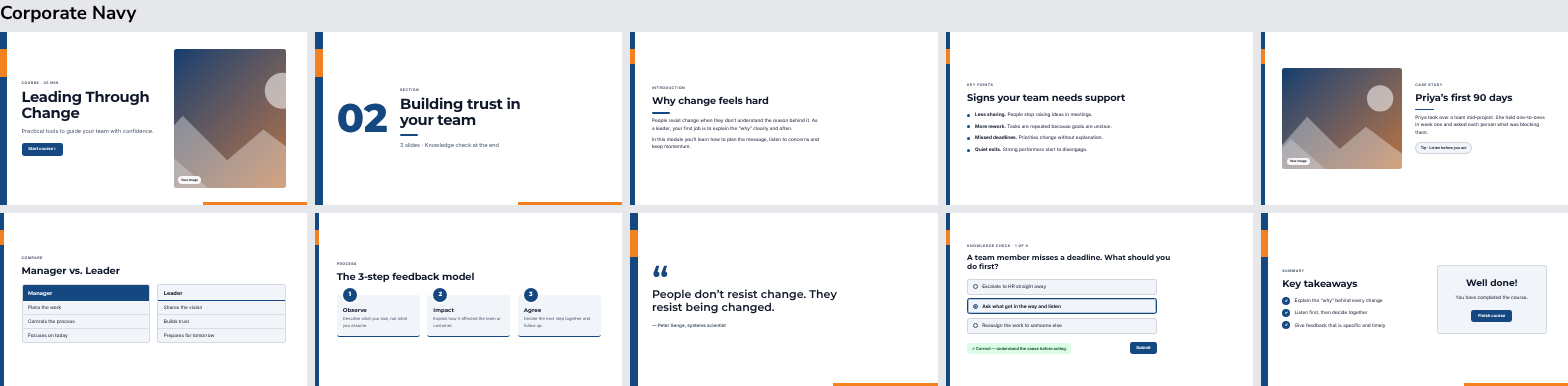
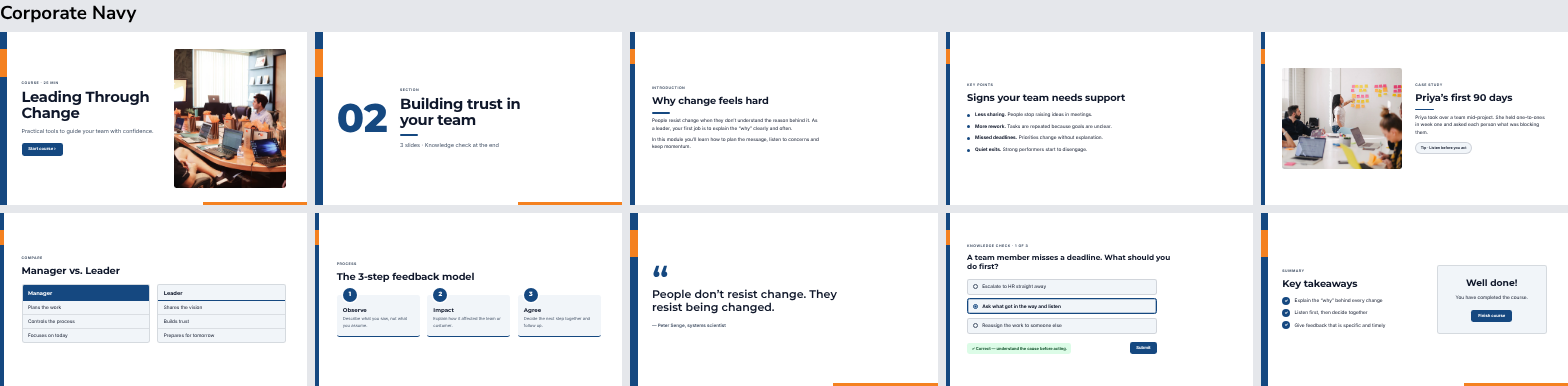
feat: real Unsplash photos in course slide templates
- Replace gradient image placeholders with 18 Unsplash photos (cover and
  feature photo per template), bundled as WebP in src/assets/templates
- Per-template crop focus for cover photos; photos are decorative (alt="")
- Update design spec, reference images and add PHOTO_CREDITS.md

Claude-Session: https://claude.ai/code/session_0179m8qGeWhmhiDN1X8WoMy8

Changed region(s): [[0.0938, 0.1244, 0.1875, 0.4974], [0.8125, 0.1554, 0.9062, 0.4352]]

diff --git a/Downloads/Content Authoring tool/Ai Scorm Generation/src/app/components/templates/courseTemplates.ts b/Downloads/Content Authoring tool/Ai Scorm Generation/src/app/components/templates/courseTemplates.ts
@@ -1,3 +1,22 @@
+import corporateCover from '../../../assets/templates/corporate-cover.webp';
+import corporateFeature from '../../../assets/templates/corporate-feature.webp';
+import executiveFeature from '../../../assets/templates/executive-feature.webp';
+import mintCover from '../../../assets/templates/mint-cover.webp';
+import mintFeature from '../../../assets/templates/mint-feature.webp';
+import coralCover from '../../../assets/templates/coral-cover.webp';
+import coralFeature from '../../../assets/templates/coral-feature.webp';
+import oceanCover from '../../../assets/templates/ocean-cover.webp';
+import oceanFeature from '../../../assets/templates/ocean-feature.webp';
+import plumCover from '../../../assets/templates/plum-cover.webp';
+import plumFeature from '../../../assets/templates/plum-feature.webp';
+import forestCover from '../../../assets/templates/forest-cover.webp';
+import forestFeature from '../../../assets/templates/forest-feature.webp';
+import monoFeature from '../../../assets/templates/mono-feature.webp';
+import techCover from '../../../assets/templates/tech-cover.webp';
+import techFeature from '../../../assets/templates/tech-feature.webp';
+import sandCover from '../../../assets/templates/sand-cover.webp';
+import sandFeature from '../../../assets/templates/sand-feature.webp';
+
 /**
  * Course slide templates.
  *
@@ -62,6 +81,12 @@ export interface CourseTemplate {
   motif: TemplateMotif;
   /** Title-slide composition and the shape used for images in this template. */
   cover: { layout: CoverLayout; imageShape: ImageShape };
+  /**
+   * Sample photos (Unsplash licence, see docs/templates/PHOTO_CREDITS.md).
+   * `cover` is used on the title slide, `feature` on Image + Text slides.
+   * `focus` is the CSS object-position for the cover crop.
+   */
+  photos: { cover?: string; feature: string; focus?: string };
 }
 
 export const COURSE_TEMPLATES: CourseTemplate[] = [
@@ -71,6 +96,7 @@ export const COURSE_TEMPLATES: CourseTemplate[] = [
     colors: { bg: '#FFFFFF', surface: '#F1F5F9', primary: '#154880', onPrimary: '#FFFFFF', accent: '#F48120', text: '#0F172A', muted: '#475569' },
     fonts: { heading: 'Montserrat', body: 'Inter' }, radius: 10, buttonStyle: 'rounded', motif: 'side-band',
     cover: { layout: 'image-right', imageShape: 'rect' },
+    photos: { cover: corporateCover, feature: corporateFeature },
   },
   {
     id: 'tpl-executive-gold', name: 'Executive Gold', description: 'Dark, premium and refined',
@@ -78,6 +104,7 @@ export const COURSE_TEMPLATES: CourseTemplate[] = [
     colors: { bg: '#0F172A', surface: '#1E293B', primary: '#D4A843', onPrimary: '#0F172A', accent: '#D4A843', text: '#F8FAFC', muted: '#CBD5E1' },
     fonts: { heading: 'Playfair Display', body: 'Inter' }, radius: 4, buttonStyle: 'square', motif: 'gold-frame',
     cover: { layout: 'centered', imageShape: 'rect' },
+    photos: { feature: executiveFeature, focus: 'center 30%' },
   },
   {
     id: 'tpl-fresh-mint', name: 'Fresh Mint', description: 'Light, friendly and modern',
@@ -85,6 +112,7 @@ export const COURSE_TEMPLATES: CourseTemplate[] = [
     colors: { bg: '#FFFFFF', surface: '#F0FDFA', primary: '#0F766E', onPrimary: '#FFFFFF', accent: '#5EEAD4', text: '#134E4A', muted: '#3F5F5B' },
     fonts: { heading: 'Poppins', body: 'Poppins' }, radius: 18, buttonStyle: 'pill', motif: 'soft-blobs',
     cover: { layout: 'image-left', imageShape: 'arch' },
+    photos: { cover: mintCover, feature: mintFeature },
   },
   {
     id: 'tpl-sunrise-coral', name: 'Sunrise Coral', description: 'Warm, energetic and bold',
@@ -92,6 +120,7 @@ export const COURSE_TEMPLATES: CourseTemplate[] = [
     colors: { bg: '#FFF7ED', surface: '#FFFFFF', primary: '#C2410C', onPrimary: '#FFFFFF', accent: '#FB923C', text: '#431407', muted: '#7C2D12' },
     fonts: { heading: 'Montserrat', body: 'Lato' }, radius: 12, buttonStyle: 'rounded', motif: 'diagonal',
     cover: { layout: 'split', imageShape: 'rect' },
+    photos: { cover: coralCover, feature: coralFeature },
   },
   {
     id: 'tpl-ocean-breeze', name: 'Ocean Breeze', description: 'Calm blue, airy and clean',
@@ -99,6 +128,7 @@ export const COURSE_TEMPLATES: CourseTemplate[] = [
     colors: { bg: '#F0F7FF', surface: '#FFFFFF', primary: '#1D4ED8', onPrimary: '#FFFFFF', accent: '#38BDF8', text: '#0C1E3E', muted: '#334E7A' },
     fonts: { heading: 'Inter', body: 'Inter' }, radius: 14, buttonStyle: 'rounded', motif: 'circles',
     cover: { layout: 'image-right', imageShape: 'circle' },
+    photos: { cover: oceanCover, feature: oceanFeature, focus: 'center 40%' },
   },
   {
     id: 'tpl-royal-plum', name: 'Royal Plum', description: 'Rich purple with pink highlights',
@@ -106,6 +136,7 @@ export const COURSE_TEMPLATES: CourseTemplate[] = [
     colors: { bg: '#2E1065', surface: '#3B1C78', primary: '#F472B6', onPrimary: '#2E1065', accent: '#F472B6', text: '#FFFFFF', muted: '#DDD6FE' },
     fonts: { heading: 'Montserrat', body: 'Lato' }, radius: 16, buttonStyle: 'pill', motif: 'arc',
     cover: { layout: 'full-bleed', imageShape: 'rect' },
+    photos: { cover: plumCover, feature: plumFeature, focus: '70% center' },
   },
   {
     id: 'tpl-forest-hexa', name: 'Forest Hexa', description: 'Deep green with lime hexagons',
@@ -113,6 +144,7 @@ export const COURSE_TEMPLATES: CourseTemplate[] = [
     colors: { bg: '#052E16', surface: '#14532D', primary: '#A3E635', onPrimary: '#052E16', accent: '#A3E635', text: '#F0FDF4', muted: '#BBF7D0' },
     fonts: { heading: 'Poppins', body: 'Inter' }, radius: 10, buttonStyle: 'rounded', motif: 'hexagons',
     cover: { layout: 'image-left', imageShape: 'hex' },
+    photos: { cover: forestCover, feature: forestFeature },
   },
   {
     id: 'tpl-minimal-mono', name: 'Minimal Mono', description: 'White space, black type, red accent',
@@ -120,6 +152,7 @@ export const COURSE_TEMPLATES: CourseTemplate[] = [
     colors: { bg: '#FFFFFF', surface: '#F5F5F5', primary: '#111827', onPrimary: '#FFFFFF', accent: '#E11D48', text: '#111827', muted: '#4B5563' },
     fonts: { heading: 'Inter', body: 'Inter' }, radius: 0, buttonStyle: 'square', motif: 'red-rule',
     cover: { layout: 'type-only', imageShape: 'rect' },
+    photos: { feature: monoFeature },
   },
   {
     id: 'tpl-tech-grid', name: 'Tech Grid', description: 'Dark slate with cyan glow',
@@ -127,6 +160,7 @@ export const COURSE_TEMPLATES: CourseTemplate[] = [
     colors: { bg: '#0B1120', surface: '#111C33', primary: '#22D3EE', onPrimary: '#0B1120', accent: '#22D3EE', text: '#E2E8F0', muted: '#A5B4C8' },
     fonts: { heading: 'Space Grotesk', body: 'Inter' }, radius: 8, buttonStyle: 'rounded', motif: 'dot-grid',
     cover: { layout: 'image-left', imageShape: 'rect' },
+    photos: { cover: techCover, feature: techFeature },
   },
   {
     id: 'tpl-warm-sand', name: 'Warm Sand', description: 'Soft paper tones, classic serif',
@@ -134,6 +168,7 @@ export const COURSE_TEMPLATES: CourseTemplate[] = [
     colors: { bg: '#F5EFE6', surface: '#FFFFFF', primary: '#7C4A2D', onPrimary: '#FFFFFF', accent: '#C2410C', text: '#2B1A10', muted: '#5C4033' },
     fonts: { heading: 'Merriweather', body: 'Lato' }, radius: 6, buttonStyle: 'rounded', motif: 'paper',
     cover: { layout: 'image-right', imageShape: 'arch' },
+    photos: { cover: sandCover, feature: sandFeature },
   },
 ];
 

diff --git a/Downloads/Content Authoring tool/Ai Scorm Generation/src/app/components/templates/TemplateSlide.tsx b/Downloads/Content Authoring tool/Ai Scorm Generation/src/app/components/templates/TemplateSlide.tsx
@@ -36,16 +36,11 @@ export function TemplateMotifLayer({ motif, strong = false }: { motif: TemplateM
   );
 }
 
-/** Placeholder artwork that stands in for a photo in sample slides. */
-function ImageArt({ className, label = 'Your image' }: { className?: string; label?: string }) {
+/** Photo in a sample slide (decorative: the whole slide has one accessible name). */
+function SlidePhoto({ src, className, focus }: { src: string; className?: string; focus?: string }) {
   return (
     <div className={cn('ts-image', className)}>
-      <svg viewBox="0 0 160 100" preserveAspectRatio="xMidYMid slice" aria-hidden="true">
-        <circle cx="118" cy="30" r="13" fill="#fff" opacity=".55" />
-        <path d="M0 100 L46 48 L78 80 L104 58 L160 100 Z" fill="#fff" opacity=".35" />
-        <path d="M0 100 L30 70 L64 100 Z" fill="#fff" opacity=".25" />
-      </svg>
-      <span className="ts-image-label">{label}</span>
+      <img src={src} alt="" loading="lazy" decoding="async" draggable={false} style={focus ? { objectPosition: focus } : undefined} />
     </div>
   );
 }
@@ -57,17 +52,17 @@ function SlideBody({ kind, template }: { kind: SampleSlideKind; template: Course
   switch (kind) {
     case 'cover': {
       const { layout } = template.cover;
-      const hasImage = layout !== 'centered' && layout !== 'type-only';
+      const hasImage = layout !== 'centered' && layout !== 'type-only' && !!template.photos.cover;
       return (
         <div className={cn('ts-cover', `ts-cover--${layout}`)}>
-          {layout === 'full-bleed' && <ImageArt className="ts-cover-bleed" label="Your background image" />}
+          {layout === 'full-bleed' && template.photos.cover && <SlidePhoto src={template.photos.cover} focus={template.photos.focus} className="ts-cover-bleed" />}
           <div className="ts-cover-text">
             <p className="ts-eyebrow">Course · 25 min</p>
             <p className="ts-h1">{COURSE}</p>
             <p className="ts-lead">Practical tools to guide your team with confidence.</p>
             <span className="ts-btn">Start course ›</span>
           </div>
-          {hasImage && layout !== 'full-bleed' && <ImageArt className={cn('ts-cover-image', shape)} />}
+          {hasImage && layout !== 'full-bleed' && <SlidePhoto src={template.photos.cover!} focus={template.photos.focus} className={cn('ts-cover-image', shape)} />}
         </div>
       );
     }
@@ -109,7 +104,7 @@ function SlideBody({ kind, template }: { kind: SampleSlideKind; template: Course
     case 'image-text':
       return (
         <div className="ts-split">
-          <ImageArt className={cn('ts-split-image', shape)} />
+          <SlidePhoto src={template.photos.feature} className={cn('ts-split-image', shape)} />
           <div>
             <p className="ts-eyebrow">Case study</p>
             <p className="ts-h2">Priya’s first 90 days</p>

diff --git a/Downloads/Content Authoring tool/Ai Scorm Generation/src/app/components/templates/TemplateSlide.css b/Downloads/Content Authoring tool/Ai Scorm Generation/src/app/components/templates/TemplateSlide.css
@@ -24,11 +24,9 @@
 .ts-btn { display: inline-flex; align-items: center; margin-top: 2.6cqw; padding: 1cqw 2.2cqw; background: var(--t-primary); color: var(--t-on-primary); font-weight: 700; font-size: 1.35cqw; border-radius: var(--t-btn-radius); width: fit-content; }
 .ts-chip { display: inline-block; margin-top: 2cqw; padding: .6cqw 1.4cqw; border-radius: 999px; background: var(--t-surface); color: var(--t-text); font-size: 1.2cqw; font-weight: 600; border: .1cqw solid color-mix(in srgb, var(--t-text) 15%, transparent); }
 
-/* Image placeholder */
-.ts-image { position: relative; overflow: hidden; border-radius: var(--t-radius);
-  background: linear-gradient(135deg, color-mix(in srgb, var(--t-primary) 85%, #000) 0%, color-mix(in srgb, var(--t-accent) 75%, var(--t-primary)) 100%); }
-.ts-image svg { position: absolute; inset: 0; width: 100%; height: 100%; }
-.ts-image-label { position: absolute; left: 1.4cqw; bottom: 1.4cqw; padding: .4cqw 1cqw; border-radius: 999px; background: rgba(255,255,255,.9); color: #111827; font-size: 1cqw; font-weight: 700; }
+/* Photos */
+.ts-image { position: relative; overflow: hidden; border-radius: var(--t-radius); background: var(--t-surface); }
+.ts-image img { position: absolute; inset: 0; width: 100%; height: 100%; object-fit: cover; display: block; }
 
 /* Cover — one composition per template (template.cover.layout) */
 .ts-cover { display: grid; grid-template-columns: 1.25fr 1fr; gap: 4cqw; align-items: center; height: 100%; }
@@ -49,12 +47,11 @@
 .ts-cover--full-bleed { grid-template-columns: 1fr; }
 .ts-cover-bleed { position: absolute !important; inset: 0; border-radius: 0 !important; z-index: -1; }
 .ts-cover--full-bleed .ts-cover-text { background: var(--t-bg); padding: 3.4cqw 3.6cqw; max-width: 56%; border-radius: var(--t-radius); box-shadow: 0 1.4cqw 3cqw rgba(0,0,0,.25); }
-.ts-cover--full-bleed .ts-image-label { left: auto; right: 1.4cqw; }
 /* Image shapes */
 .ts-shape--circle { aspect-ratio: 1; height: auto !important; min-height: 0 !important; border-radius: 50% !important; justify-self: center; width: 92%; }
 .ts-shape--arch { border-radius: 50cqw 50cqw var(--t-radius) var(--t-radius) !important; }
 .ts-shape--hex { border-radius: 0 !important; clip-path: polygon(25% 3%, 75% 3%, 100% 50%, 75% 97%, 25% 97%, 0 50%); aspect-ratio: 1.1; height: auto !important; min-height: 0 !important; }
-.ts-shape--circle .ts-image-label, .ts-shape--hex .ts-image-label { left: 50%; transform: translateX(-50%); bottom: 12%; }
+
 /* Section */
 .ts-section { display: flex; align-items: center; gap: 4cqw; }
 .ts-section-num { font-family: var(--t-heading); font-size: 13cqw; font-weight: 800; line-height: 1; color: var(--t-primary); }

diff --git a/Downloads/Content Authoring tool/Ai Scorm Generation/docs/templates/TEMPLATE_DESIGN_SPEC.md b/Downloads/Content Authoring tool/Ai Scorm Generation/docs/templates/TEMPLATE_DESIGN_SPEC.md
@@ -109,7 +109,26 @@ Same order in the Preview popup. Measurements in cqw (px @1280).
 | `type-only` | Minimal Mono | Left aligned, H1 **7cqw**, letter-spacing −0.035em, max 80% width. No image. |
 
 **Image shapes**: `rect` (template radius) · `circle` (1:1, 50%) · `arch` (top corners 50cqw, bottom = template radius) · `hex` (clip-path hexagon, 1.1:1).
-In the prototype images are gradient placeholders labelled "Your image". Production: use real photography; minimum 1600px on the long side; the placeholder shows the crop.
+
+### Photos
+
+Each template ships with two sample photos: `cover` (Title slide) and `feature` (Image + Text slide). Executive Gold and Minimal Mono have no cover photo by design.
+Files: `src/assets/templates/<template>-cover.webp` / `-feature.webp` (WebP, 1000–1400px wide, q 55–70). Sources and licence: [PHOTO_CREDITS.md](./PHOTO_CREDITS.md).
+
+| Template | Cover photo | Feature photo |
+|---|---|---|
+| Corporate Navy | Boardroom meeting | Team planning with sticky notes |
+| Executive Gold | — | Executive portrait (crop 30% from top) |
+| Fresh Mint | Smiling colleagues | Bright, plant-filled office |
+| Sunrise Coral | Colleagues high-five | Smiling professional |
+| Ocean Breeze | Doctor using phone (crop 40% from top) | Team around a laptop |
+| Royal Plum | Creative studio meeting (full-bleed, focus 70% x) | Smiling woman portrait |
+| Forest Hexa | Forest path | Green hills at sunrise |
+| Minimal Mono | — | Skyscrapers from below |
+| Tech Grid | Glowing circuit board | Analytics dashboard |
+| Warm Sand | Hands on a laptop, warm tones | Loft office |
+
+Rules: `object-fit: cover`; `alt=""` (the whole sample slide has one accessible name); photos never carry text. Courses replace these with their own images; recommended minimum 1600px on the long side.
 
 ---
 

diff --git a/Downloads/Content Authoring tool/Ai Scorm Generation/docs/templates/PHOTO_CREDITS.md b/Downloads/Content Authoring tool/Ai Scorm Generation/docs/templates/PHOTO_CREDITS.md
@@ -1,0 +1,28 @@
+# Template sample photos — sources
+
+All photos are from **Unsplash** and are used under the [Unsplash License](https://unsplash.com/license):
+free for commercial and non-commercial use, no permission or attribution required.
+(Not allowed: selling unaltered copies, or building a competing stock-photo service.)
+
+Downloaded from `images.unsplash.com` as WebP. Original image URL = `https://images.unsplash.com/photo-<id>`.
+
+| File (`src/assets/templates/`) | Unsplash photo id |
+|---|---|
+| corporate-cover.webp | 1542744173-8e7e53415bb0 |
+| corporate-feature.webp | 1552664730-d307ca884978 |
+| executive-feature.webp | 1560250097-0b93528c311a |
+| mint-cover.webp | 1543269865-cbf427effbad |
+| mint-feature.webp | 1524758631624-e2822e304c36 |
+| coral-cover.webp | 1600880292203-757bb62b4baf |
+| coral-feature.webp | 1556157382-97eda2d62296 |
+| ocean-cover.webp | 1576091160399-112ba8d25d1d |
+| ocean-feature.webp | 1531545514256-b1400bc00f31 |
+| plum-cover.webp | 1557804506-669a67965ba0 |
+| plum-feature.webp | 1573496359142-b8d87734a5a2 |
+| forest-cover.webp | 1441974231531-c6227db76b6e |
+| forest-feature.webp | 1470071459604-3b5ec3a7fe05 |
+| mono-feature.webp | 1486406146926-c627a92ad1ab |
+| tech-cover.webp | 1550751827-4bd374c3f58b |
+| tech-feature.webp | 1551288049-bebda4e38f71 |
+| sand-cover.webp | 1515378791036-0648a3ef77b2 |
+| sand-feature.webp | 1559136555-9303baea8ebd |
